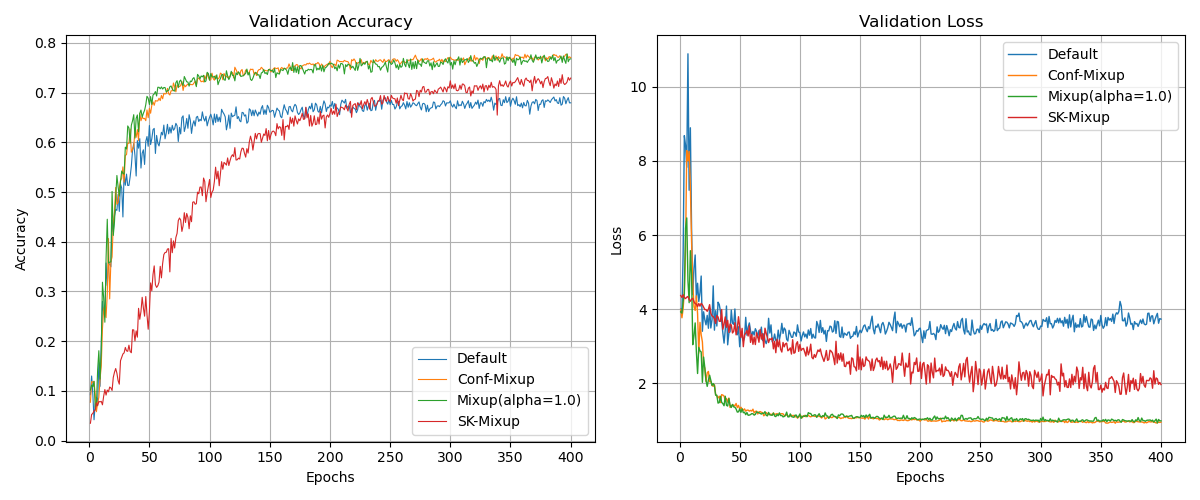
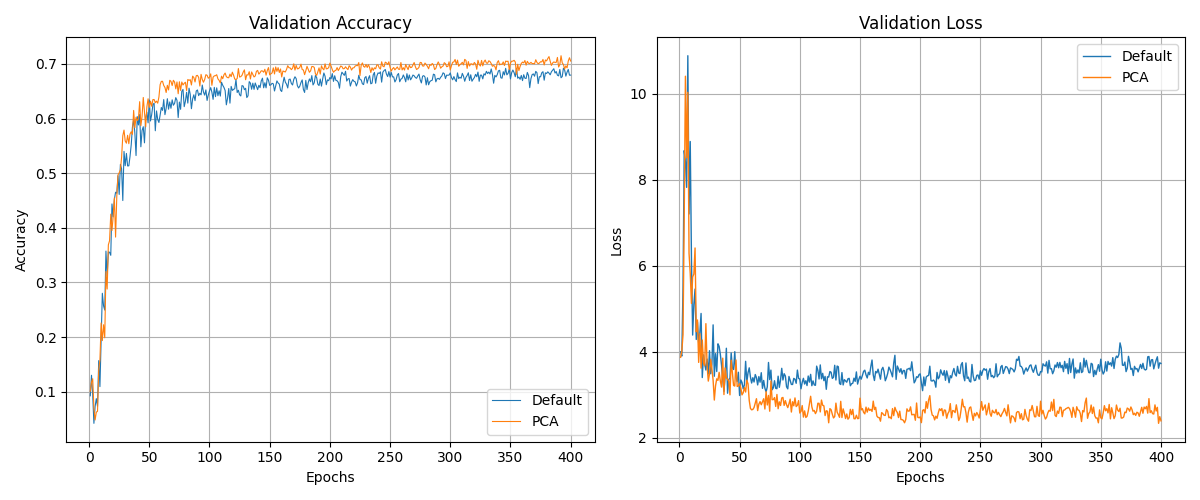
svd

diff --git a/src/methods/pca.py b/src/methods/pca.py
@@ -61,7 +61,7 @@ def local_pca_perturbation_torch(
     return features_pert
 
 
-def compute_almp_loss_wrn(model, images, labels, lambda_almp=0.5, device='cuda'):
+def compute_almp_loss_wrn(model, images, labels, method, lambda_almp=0.5, device='cuda'):
     model.train()
     images = images.to(device)
     labels = labels.to(device)
@@ -76,15 +76,14 @@ def compute_almp_loss_wrn(model, images, labels, lambda_almp=0.5, device='cuda')
     # ALMPによる特徴摂動
     # features_almp = adaptive_local_manifold_perturbation(features, device=device)
     # features_almp = local_pca_perturbation(features, device=device)
-    features_almp = local_pca_perturbation_torch(features)
+    features_almp = local_pca_perturbation_torch(features, method=method)
     logits_almp = model.linear(features_almp)
     loss_almp = F.cross_entropy(logits_almp, labels)
 
     return loss_orig + lambda_almp * loss_almp, logits_orig
 
 
-
-
+### ------------------------------------------------------------------------------------------- ###
 
 
 def local_pca_perturbation(data, device, k=10, alpha=1.0):

diff --git a/src/utils.py b/src/utils.py
@@ -166,7 +166,10 @@ def train(model, train_loader, criterion, optimizer, device, augment, num_classe
             loss = mix_loss
         
         elif augment == "PCA":
-            loss, preds = compute_almp_loss_wrn(model, images, labels, lambda_almp=1.0, device=device)
+            loss, preds = compute_almp_loss_wrn(model, images, labels, method="pca", lambda_almp=1.0, device=device)
+        
+        elif augment == "SVD":
+            loss, preds = compute_almp_loss_wrn(model, images, labels, method="svd", lambda_almp=1.0, device=device)
         
         elif augment == "CutMix":
             images, y_a, y_b, lam = cutmix_data(images, labels, alpha=1.0)

diff --git a/result.py b/result.py
@@ -20,12 +20,12 @@ def main():
     augmentations = [
         # "Original",
         "Default",
-        # "PCA",
+        "PCA",
 
-        "Conf-Mixup",
+        # "Conf-Mixup",
 
         # "Mixup(alpha=0.5)",
-        "Mixup",
+        # "Mixup",
         # "Mixup(alpha=2.0)",
         # "Mixup(alpha=5.0)",
         # "Manifold-Mixup(alpha=0.5)",
@@ -39,7 +39,7 @@ def main():
         # "RegMixup",
 
         # "Ent-Mixup",
-        "SK-Mixup",
+        # "SK-Mixup",
         # "Teacher-SK-Mixup",
         # "Teacher-SK-Mixup-Curriculum",
 

diff --git a/train.py b/train.py
@@ -23,7 +23,8 @@ augmentations = [
     # "Default",
     # "Conf-Mixup",
     
-    "PCA",
+    # "PCA",
+    "SVD",
     # "Mixup",
 
     # "CutMix",
